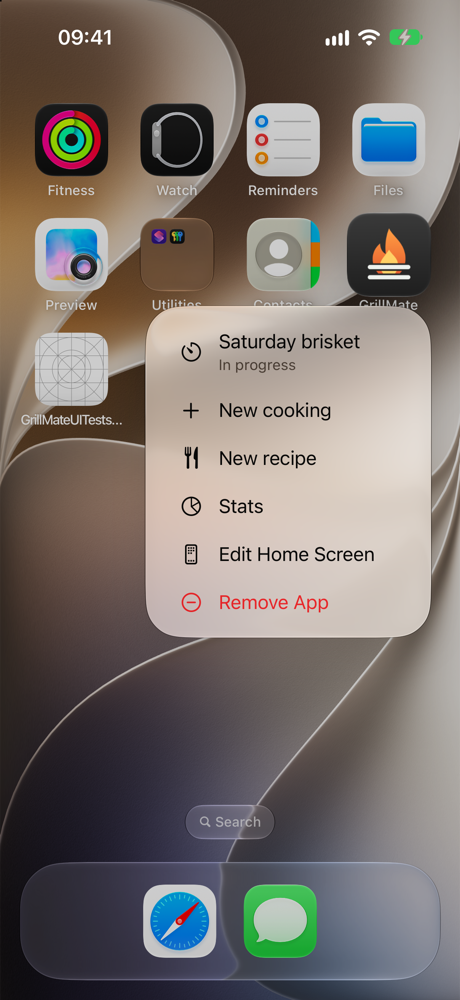
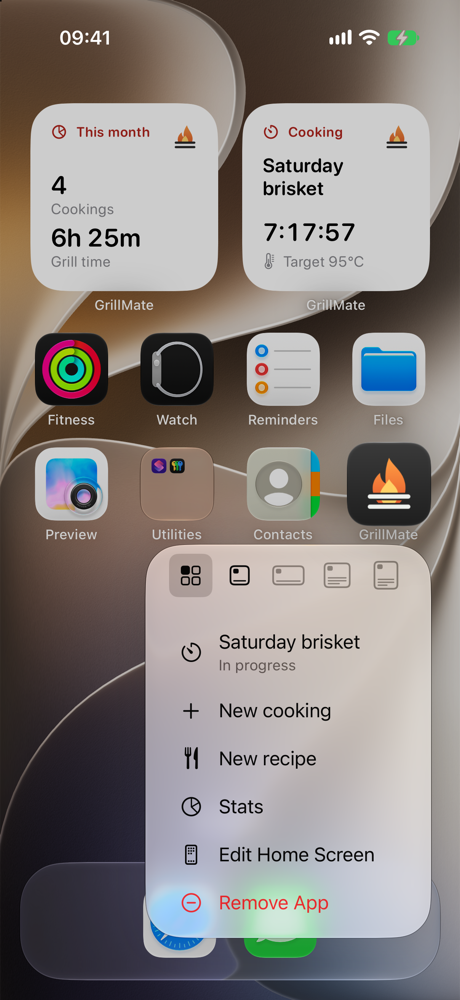
docs: show light and dark mode in the showcase (#5)
Every feature screenshot now has a dark twin shown next to it. Settings and quick actions are re-captured so both modes match.

diff --git a/README.md b/README.md
@@ -10,7 +10,7 @@
 > [!IMPORTANT]
 > 🚧 **Work in progress.** GrillMate is in active development and **will be available on the App Store soon**.
 
-GrillMate is a **native iOS logbook for barbecue**: record every cooking session, keep track of your grills and smokers, save the recipes you want to make again, see how you cook through **stats and charts**, and keep everything in sync across your devices with **iCloud**. It's built with **SwiftUI for iOS 26**.
+GrillMate is a **native iOS logbook for barbecue**: record every cooking session, keep track of your grills and smokers, save the recipes you want to make again, see how you cook through **stats and charts**, and keep everything in sync across your devices with **iCloud**. It's built with **SwiftUI for iOS 26**, in **light and dark mode**.
 
 The goal is to **use every iOS feature Apple offers** where it fits a barbecue logbook: SwiftUI and Swift Charts, Core Data with CloudKit, **WidgetKit** Home Screen and Lock Screen widgets, Home Screen quick actions and alternate app icons today, and Live Activities, the Dynamic Island, Control Center controls and AlarmKit next.
 
@@ -54,14 +54,16 @@ Website: [grillmate.pages.dev](https://grillmate.pages.dev/)
 <!-- showcase:features:start -->
 ## ✨ Features
 
-Every screenshot is taken from the app running on demo data.
+Every screenshot is taken from the app running on demo data, in **light and dark mode** side by side.
 
 ### 🍖 Cookings
 Log every session and follow it from **planned** to **completed**.
 
 <p align="center">
-  <img src="assets/screenshots/cookings.png" alt="Cookings list grouped by month" width="260">
-  <img src="assets/screenshots/cooking-detail.png" alt="Cooking detail with a stretchy photo header" width="260">
+  <img src="assets/screenshots/cookings.png" alt="Cookings list grouped by month (light)" width="200">
+  <img src="assets/screenshots/cookings-dark.png" alt="Cookings list grouped by month (dark)" width="200">
+  <img src="assets/screenshots/cooking-detail.png" alt="Cooking detail with a stretchy photo header (light)" width="200">
+  <img src="assets/screenshots/cooking-detail-dark.png" alt="Cooking detail with a stretchy photo header (dark)" width="200">
 </p>
 
 - Title, barbecue, **status** (planned, in progress, completed), proteins and technique
@@ -73,7 +75,8 @@ Log every session and follow it from **planned** to **completed**.
 All your grills, smokers, kamados and planchas in one place.
 
 <p align="center">
-  <img src="assets/screenshots/devices.png" alt="Devices list" width="260">
+  <img src="assets/screenshots/devices.png" alt="Devices list (light)" width="260">
+  <img src="assets/screenshots/devices-dark.png" alt="Devices list (dark)" width="260">
 </p>
 
 - **Manufacturer** picked from a long list of brands (or "Other"), plus model and description
@@ -83,8 +86,10 @@ All your grills, smokers, kamados and planchas in one place.
 Save the recipes you want to make again.
 
 <p align="center">
-  <img src="assets/screenshots/recipes.png" alt="Recipe cards" width="260">
-  <img src="assets/screenshots/recipe-detail.png" alt="Recipe detail with a photo gallery" width="260">
+  <img src="assets/screenshots/recipes.png" alt="Recipe cards (light)" width="200">
+  <img src="assets/screenshots/recipes-dark.png" alt="Recipe cards (dark)" width="200">
+  <img src="assets/screenshots/recipe-detail.png" alt="Recipe detail with a photo gallery (light)" width="200">
+  <img src="assets/screenshots/recipe-detail-dark.png" alt="Recipe detail with a photo gallery (dark)" width="200">
 </p>
 
 - Name, summary, technique, **prep and cook time**, servings and **target core temperature**
@@ -95,20 +100,24 @@ Save the recipes you want to make again.
 See how you cook, with **Swift Charts**.
 
 <p align="center">
-  <img src="assets/screenshots/stats.png" alt="Stats for this year" width="260">
-  <img src="assets/screenshots/stats-ocean.png" alt="Stats with the Ocean accent color" width="260">
+  <img src="assets/screenshots/stats.png" alt="Stats for this year (light)" width="200">
+  <img src="assets/screenshots/stats-dark.png" alt="Stats for this year (dark)" width="200">
+  <img src="assets/screenshots/stats-ocean.png" alt="Stats with the Ocean accent color (light)" width="200">
+  <img src="assets/screenshots/stats-ocean-dark.png" alt="Stats with the Ocean accent color (dark)" width="200">
 </p>
 
 - This month's cooks, **total, average and longest cooking time**, and a chart of the proteins cooked
 - **Extended stats (PRO)**: other periods, time per barbecue, techniques, barbecue types, cooks per month, core temperature accuracy and busiest day
-- Charts follow the **accent color** chosen in Settings (right: the Ocean theme)
+- Charts follow the **accent color** chosen in Settings (last two: the Ocean theme)
 
 ### 🔲 Widgets
 Your cook at a glance, on the **Home Screen** and the **Lock Screen** (free).
 
 <p align="center">
-  <img src="assets/screenshots/widget-now-cooking.png" alt="Now cooking widget with a live elapsed timer" width="200">
-  <img src="assets/screenshots/widget-grill-stats.png" alt="Grill stats widget with this month's cookings and grill time" width="200">
+  <img src="assets/screenshots/widget-now-cooking.png" alt="Now cooking widget with a live elapsed timer (light)" width="180">
+  <img src="assets/screenshots/widget-now-cooking-dark.png" alt="Now cooking widget with a live elapsed timer (dark)" width="180">
+  <img src="assets/screenshots/widget-grill-stats.png" alt="Grill stats widget with this month's cookings and grill time (light)" width="180">
+  <img src="assets/screenshots/widget-grill-stats-dark.png" alt="Grill stats widget with this month's cookings and grill time (dark)" width="180">
 </p>
 
 - **Now cooking** (small, and rectangular on the Lock Screen): the cook in progress with a **live elapsed timer** and its target temperature, otherwise the next planned cook, otherwise a "Fire it up" shortcut
@@ -119,7 +128,8 @@ Your cook at a glance, on the **Home Screen** and the **Lock Screen** (free).
 Long-press the app icon to jump straight into the app.
 
 <p align="center">
-  <img src="assets/screenshots/quick-actions.png" alt="Home Screen quick actions menu" width="260">
+  <img src="assets/screenshots/quick-actions.png" alt="Home Screen quick actions menu (light)" width="260">
+  <img src="assets/screenshots/quick-actions-dark.png" alt="Home Screen quick actions menu (dark)" width="260">
 </p>
 
 - **New cooking**, **New recipe**, **Stats** and **Add device**, one tap from the Home Screen
@@ -130,8 +140,12 @@ Long-press the app icon to jump straight into the app.
 GrillMate runs on **both displays** of the foldable iPhone Duo.
 
 <p align="center">
-  <img src="assets/screenshots/duo-outer.png" alt="Cookings on the iPhone Duo outer display, with the tabs in the vertical bar" height="380">
-  <img src="assets/screenshots/duo-inner.png" alt="Recipe detail on the unfolded iPhone Duo inner display" height="380">
+  <img src="assets/screenshots/duo-outer.png" alt="Cookings on the iPhone Duo outer display, with the tabs in the vertical bar (light)" height="380">
+  <img src="assets/screenshots/duo-outer-dark.png" alt="Cookings on the iPhone Duo outer display, with the tabs in the vertical bar (dark)" height="380">
+</p>
+<p align="center">
+  <img src="assets/screenshots/duo-inner.png" alt="Recipe detail on the unfolded iPhone Duo inner display (light)" width="420">
+  <img src="assets/screenshots/duo-inner-dark.png" alt="Recipe detail on the unfolded iPhone Duo inner display (dark)" width="420">
 </p>
 
 - On the **outer display**, the tabs move to the **vertical system bar** beside the content
@@ -150,11 +164,13 @@ Your logbook on every device.
 ### 🔧 Settings and onboarding
 
 <p align="center">
-  <img src="assets/screenshots/settings.png" alt="Settings with the Data section" width="260">
-  <img src="assets/screenshots/onboarding.png" alt="Onboarding tour" width="260">
+  <img src="assets/screenshots/settings.png" alt="Settings with the Data section (light)" width="200">
+  <img src="assets/screenshots/settings-dark.png" alt="Settings with the Data section (dark)" width="200">
+  <img src="assets/screenshots/onboarding.png" alt="Onboarding tour (light)" width="200">
+  <img src="assets/screenshots/onboarding-dark.png" alt="Onboarding tour (dark)" width="200">
 </p>
 
-- Light, dark or system appearance, **six accent colors** and **ten app icons**, including Pride, Italy and USA (PRO)
+- **Light, dark or system appearance**, **six accent colors** and **ten app icons**, including Pride, Italy and USA (PRO)
 - A first-launch **onboarding tour** that can be replayed
 - Privacy policy, terms of use and release notes open on the GrillMate website, in the app's language
 - Full-screen **photo viewer** with paging and pinch to zoom
